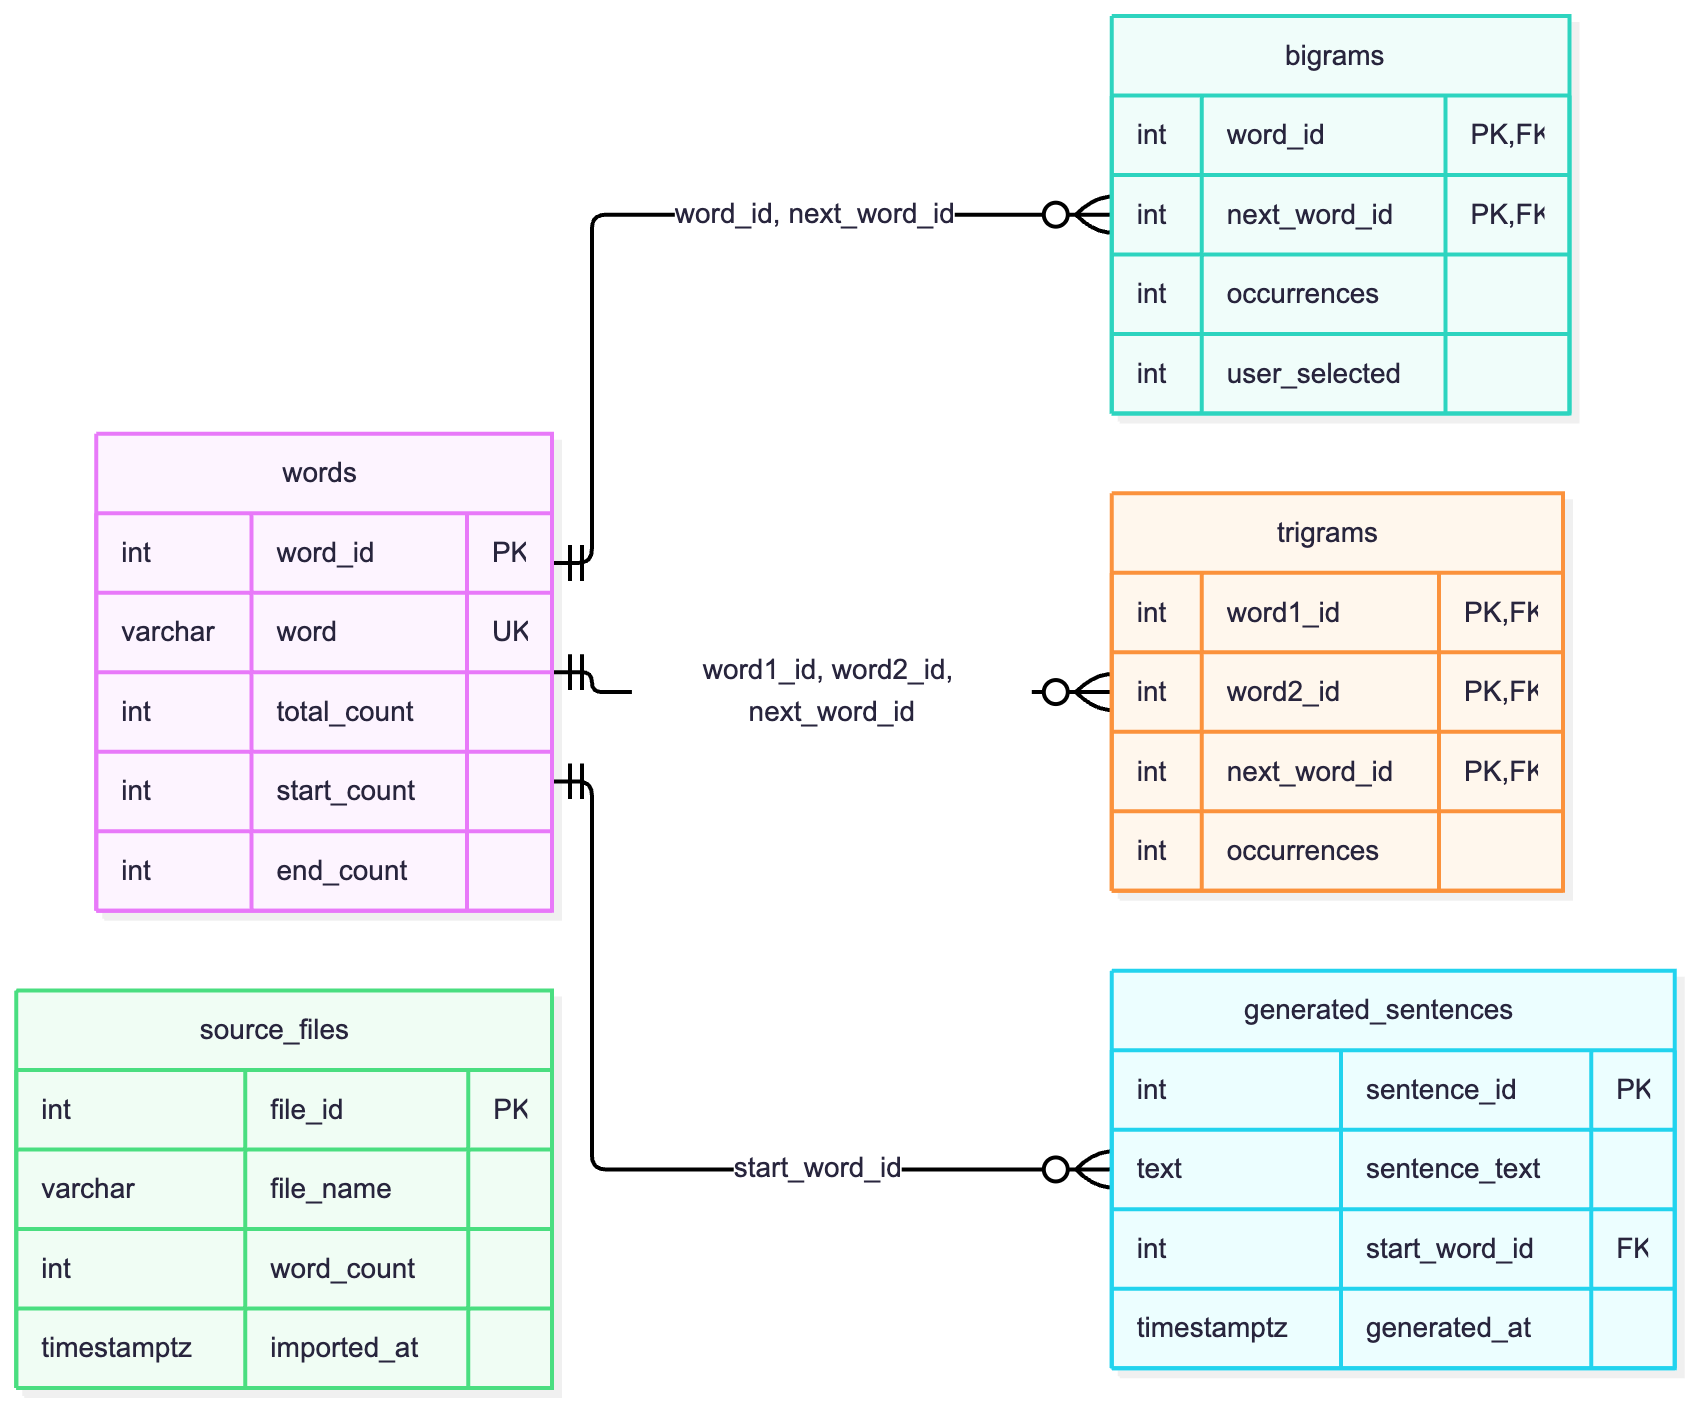
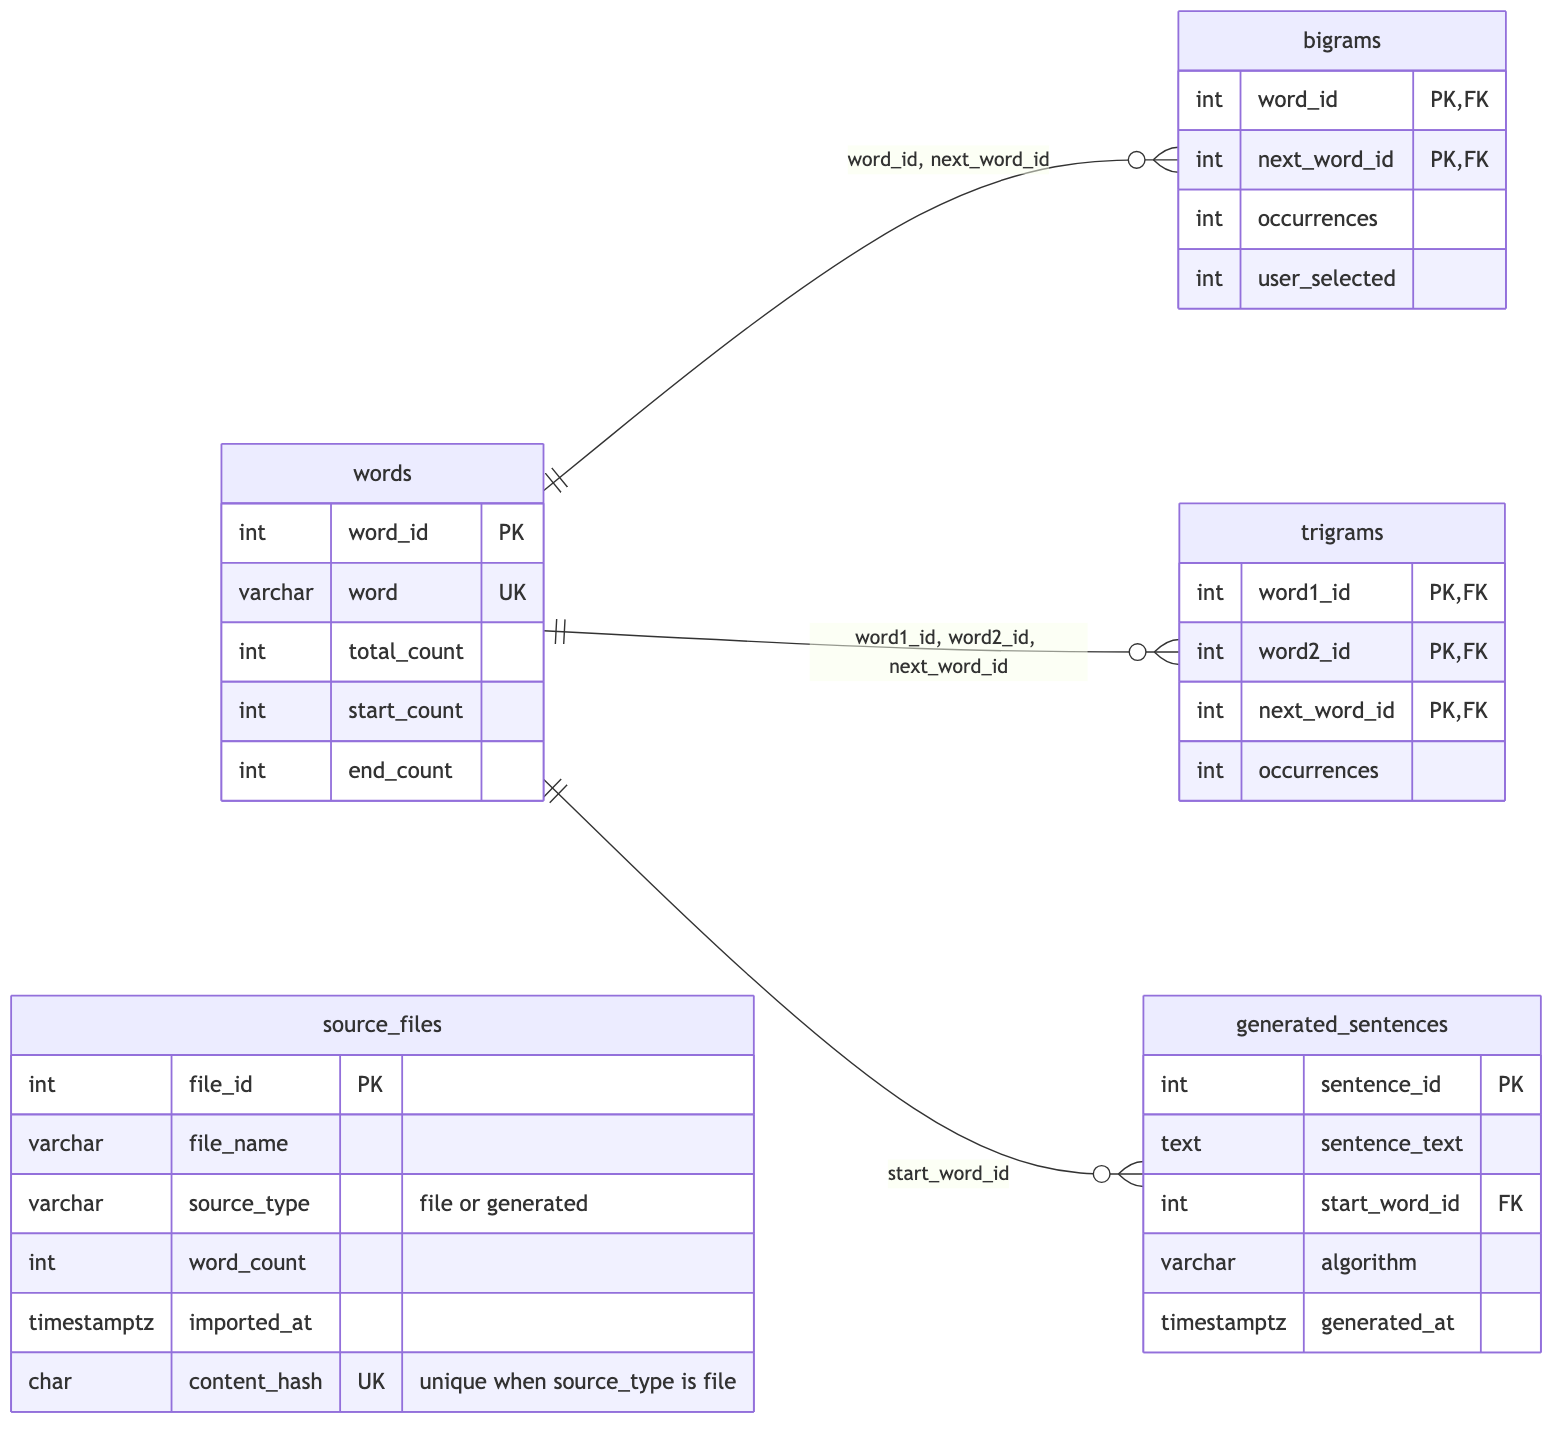
Update ER diagram to match schema.sql
Adds source_files.source_type and content_hash, and
generated_sentences.algorithm. Re-renders diagram.png from the Mermaid source.

diff --git a/database/diagram.md b/database/diagram.md
@@ -28,14 +28,17 @@ erDiagram
         int sentence_id PK
         text sentence_text
         int start_word_id FK
+        varchar algorithm
         timestamptz generated_at
     }
 
     source_files {
         int file_id PK
         varchar file_name
+        varchar source_type "file or generated"
         int word_count
         timestamptz imported_at
+        char content_hash UK "unique when source_type is file"
     }
 
     words ||--o{ bigrams : "word_id, next_word_id"
